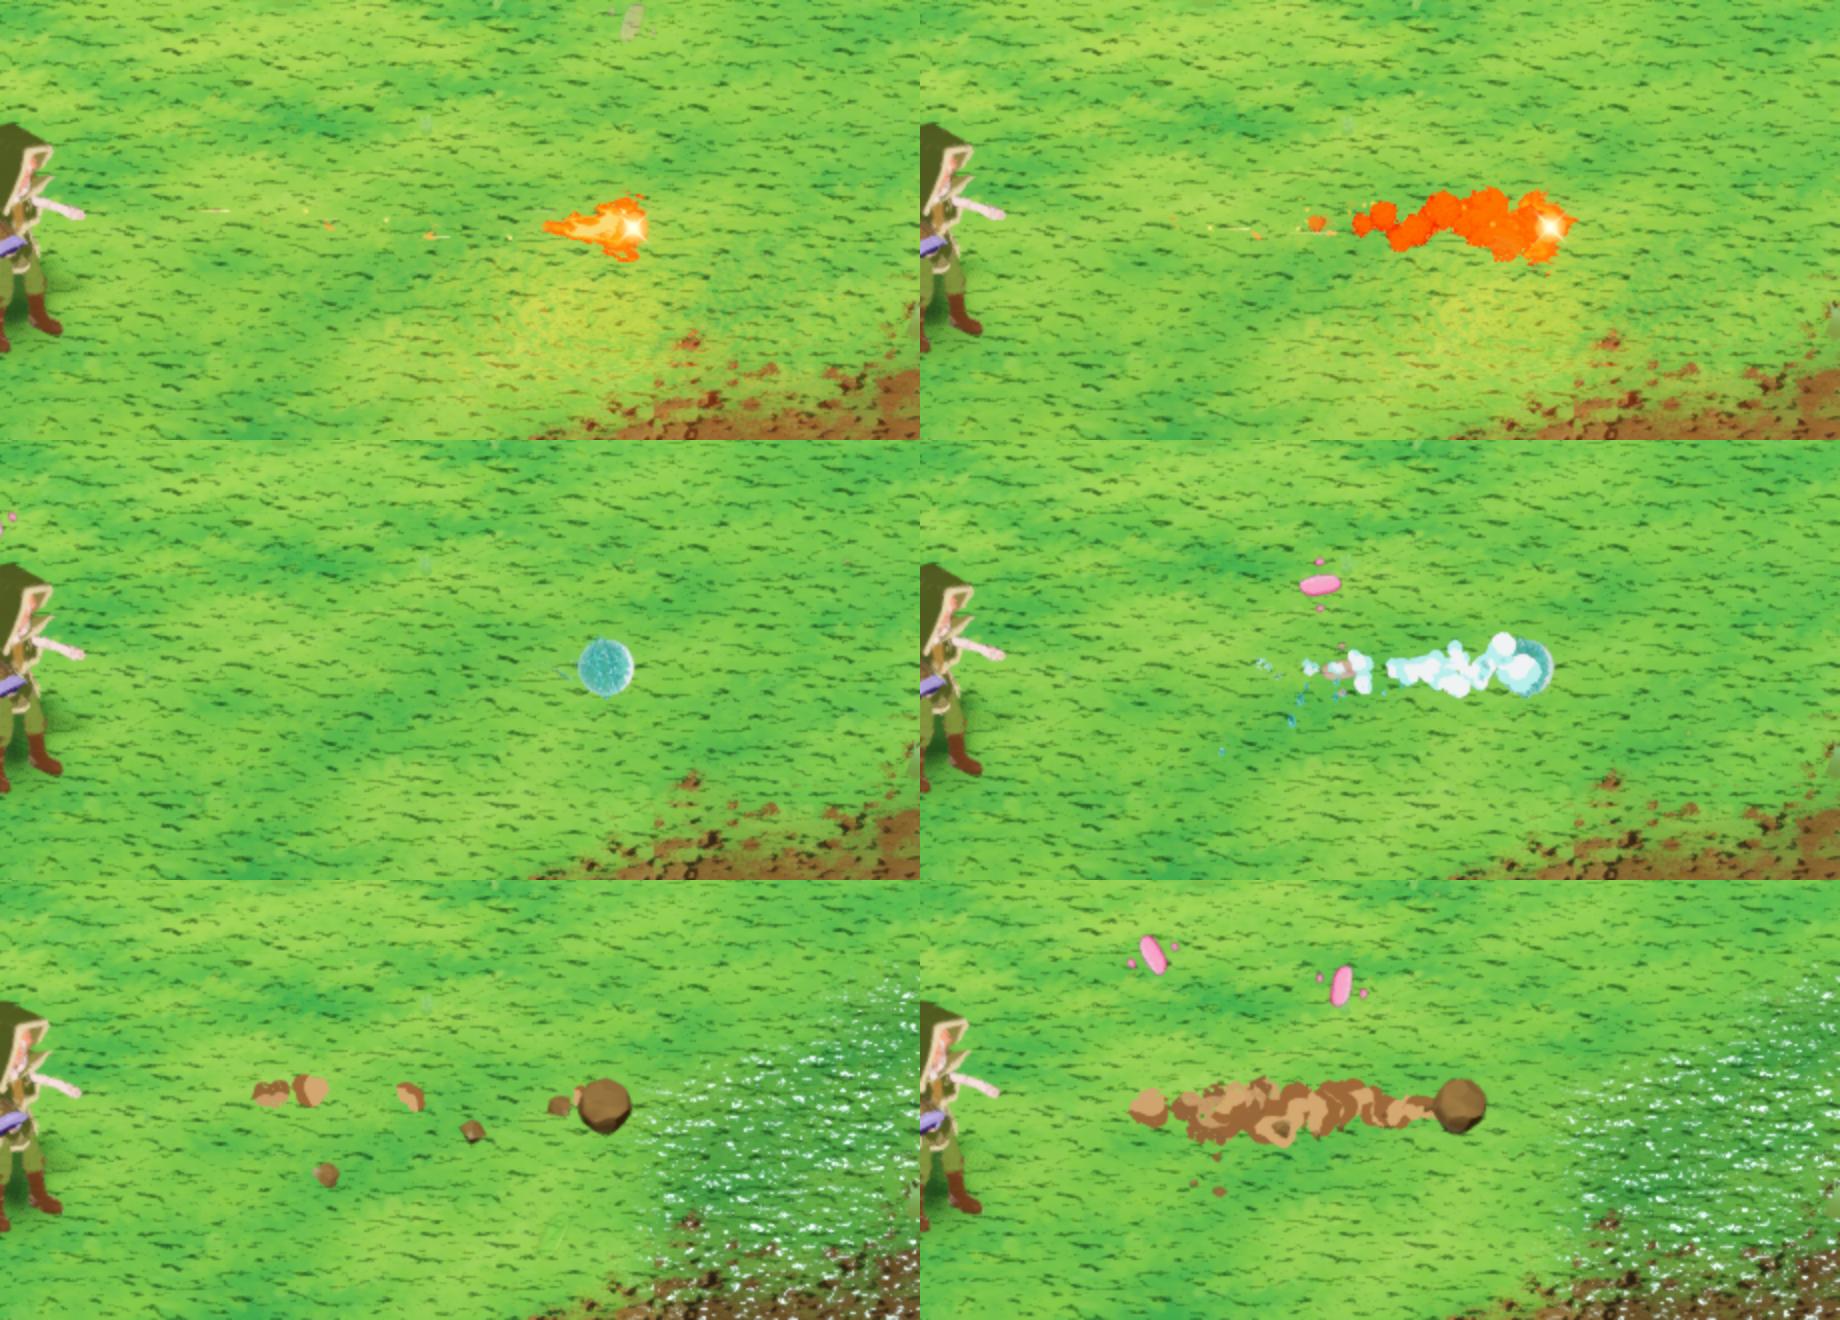
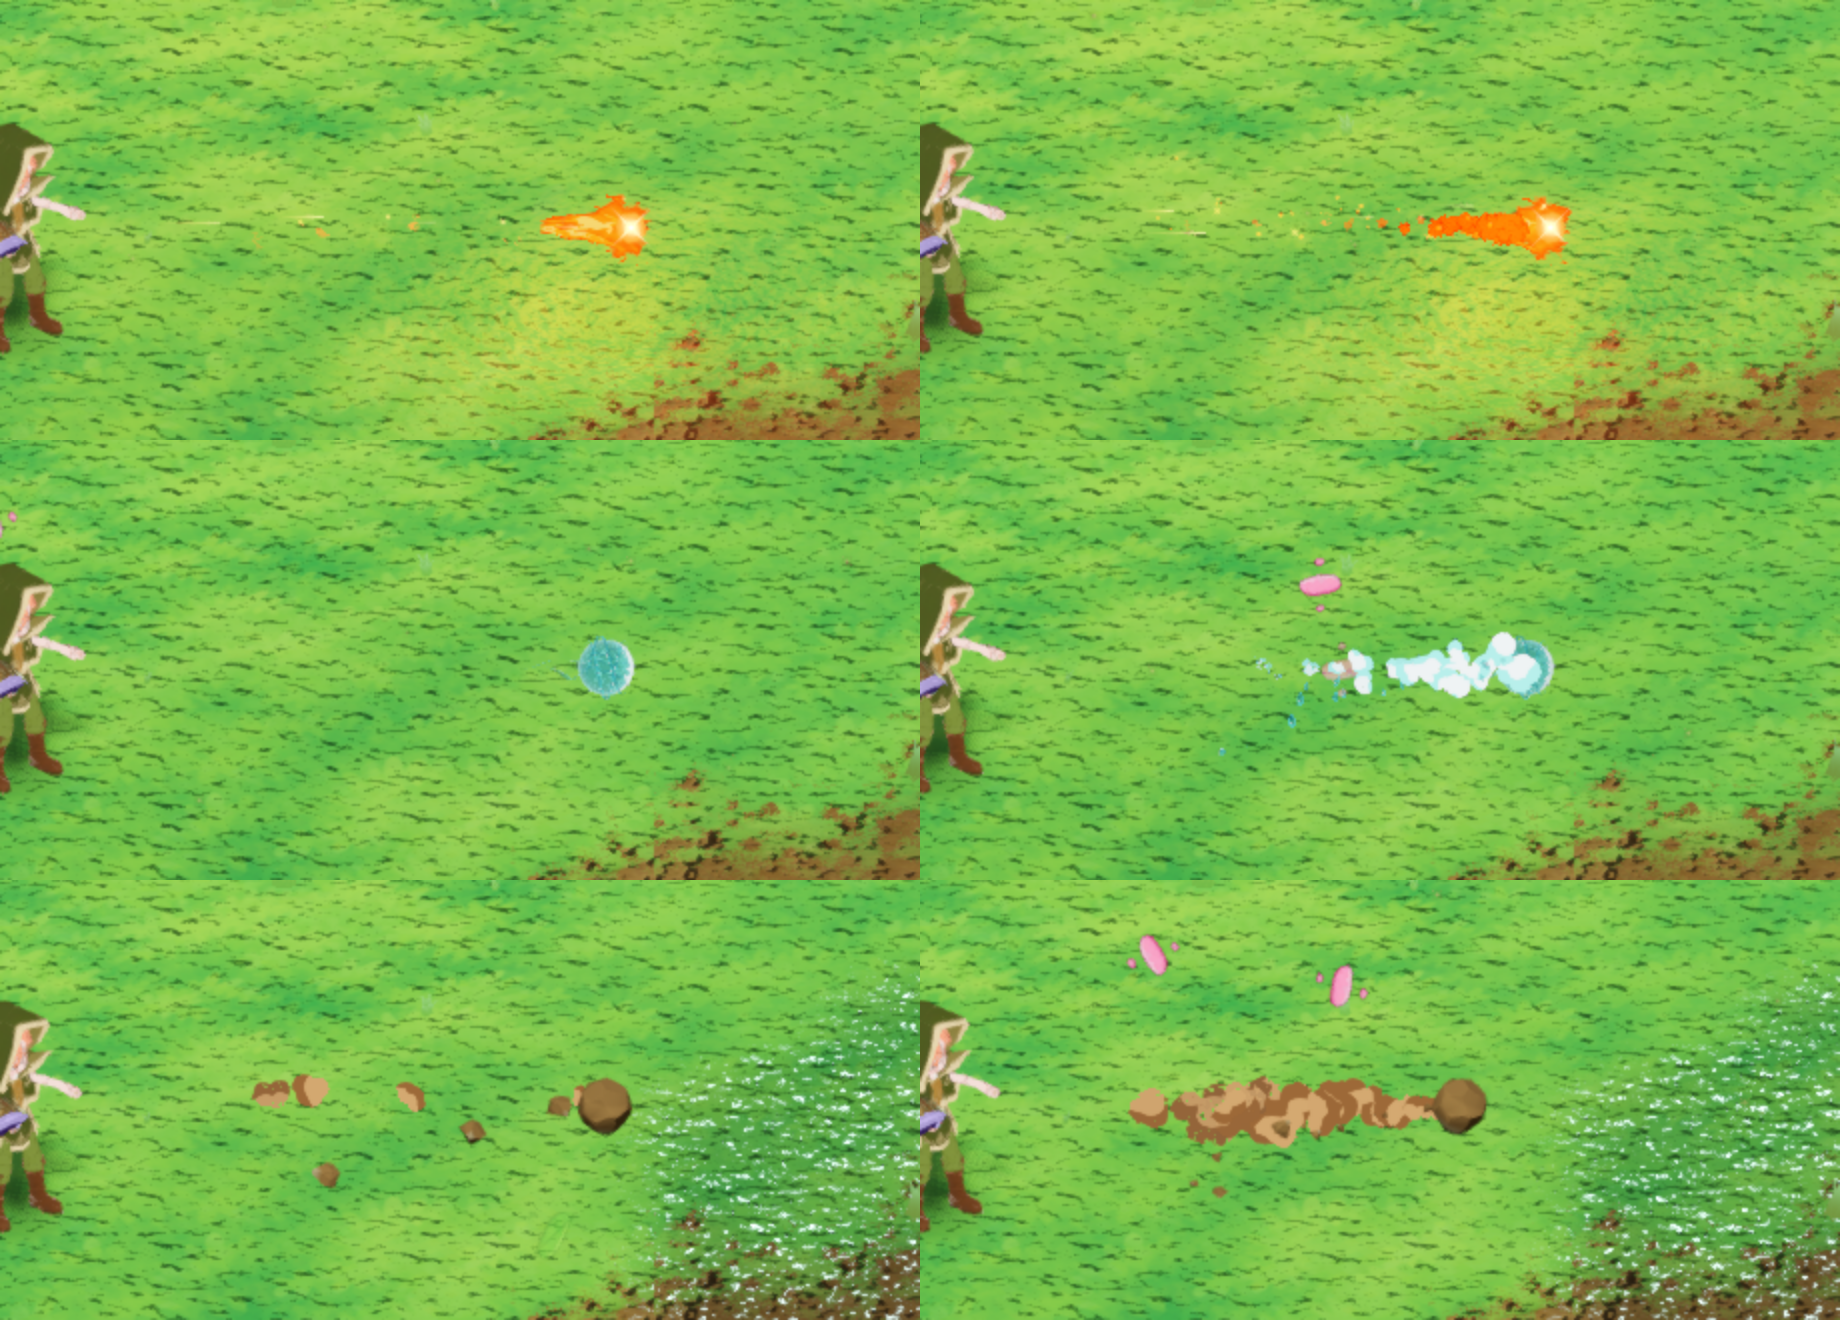
Bola de fuego: fuera el disco pálido en vuelo y estela más fina
- Los trocitos de FuegoToy (0,2 m fijos, pegados a la bola) iban encima de
  la bola pequeña del juego como un disco amarillo pálido: ahora solo con la
  bola quieta y a escala de la bola.
- Estela del fuego: bocanadas del ancho de la cabeza o menos, seguidas, que
  se enfrían deprisa al rojo; brasas naranja-rojo en vez de amarillo pálido.

diff --git a/docs/IMPACTOS_EFFEKSEER_2026-11-25.md b/docs/IMPACTOS_EFFEKSEER_2026-11-25.md
@@ -90,6 +90,11 @@ Cómo estaban nuestras bolas con la cámara del juego (`docs/capturas/estela_mun
 
 **Estado:** apagada de serie (`EstelaMundoToy.activa = false`) hasta que Pablo la vea. En `LabVfxComparativa3D`, **Ctrl+8** la enciende, **F4** lanza la bola en vuelo y **Z** cambia de elemento. Prueba: `herramientas/prueba_estela_mundo.gd` (19 comprobaciones). Antes y después en el juego: `docs/capturas/estela_mundo/hoja_estela_antes_despues.png`, que se regenera con `captura_vfx_en_juego.gd -- <carpeta> fuego,agua,tierra proyectil procedural estela`.
 
+**Revisión de la bola de fuego** (Pablo: «no me gusta la bola de fuego»):
+
+- **Disco amarillo pálido encima de la bola en vuelo.** Eran los «trocitos» de FuegoToy: miden 0,2 m fijos, casi el ancho de la bola del juego (0,24 m), y van pegados a ella. Ahora solo salen con la bola quieta y a escala de la bola (`docs/capturas/estela_mundo/bola_fuego_disco_trocitos.png`: arriba en medio, sin los trocitos, ya no está).
+- **Estela del fuego.** Las bocanadas eran más grandes que la cabeza, iban separadas como pompones y tenían un naranja plano. Ahora son del ancho de la cabeza o menos, van seguidas (cola continua que se estrecha) y tienen más contraste: se enfrían deprisa hacia el rojo. Las brasas, antes amarillo pálido, son naranja-rojo (`bola_fuego_cerca_revision.png`).
+
 ## Cómo verlo
 
 `LabVfxComparativa3D` → **Ctrl+4** pone la comparativa (izquierda lo de ahora, derecha lo traducido, se repite solo) · **Ctrl+5** par siguiente (Mayús: anterior) · **Ctrl+6** vista juego / cerca / solo traducido · **Ctrl+7** cámara lenta ×0,25 · **Ctrl+4** sale.
